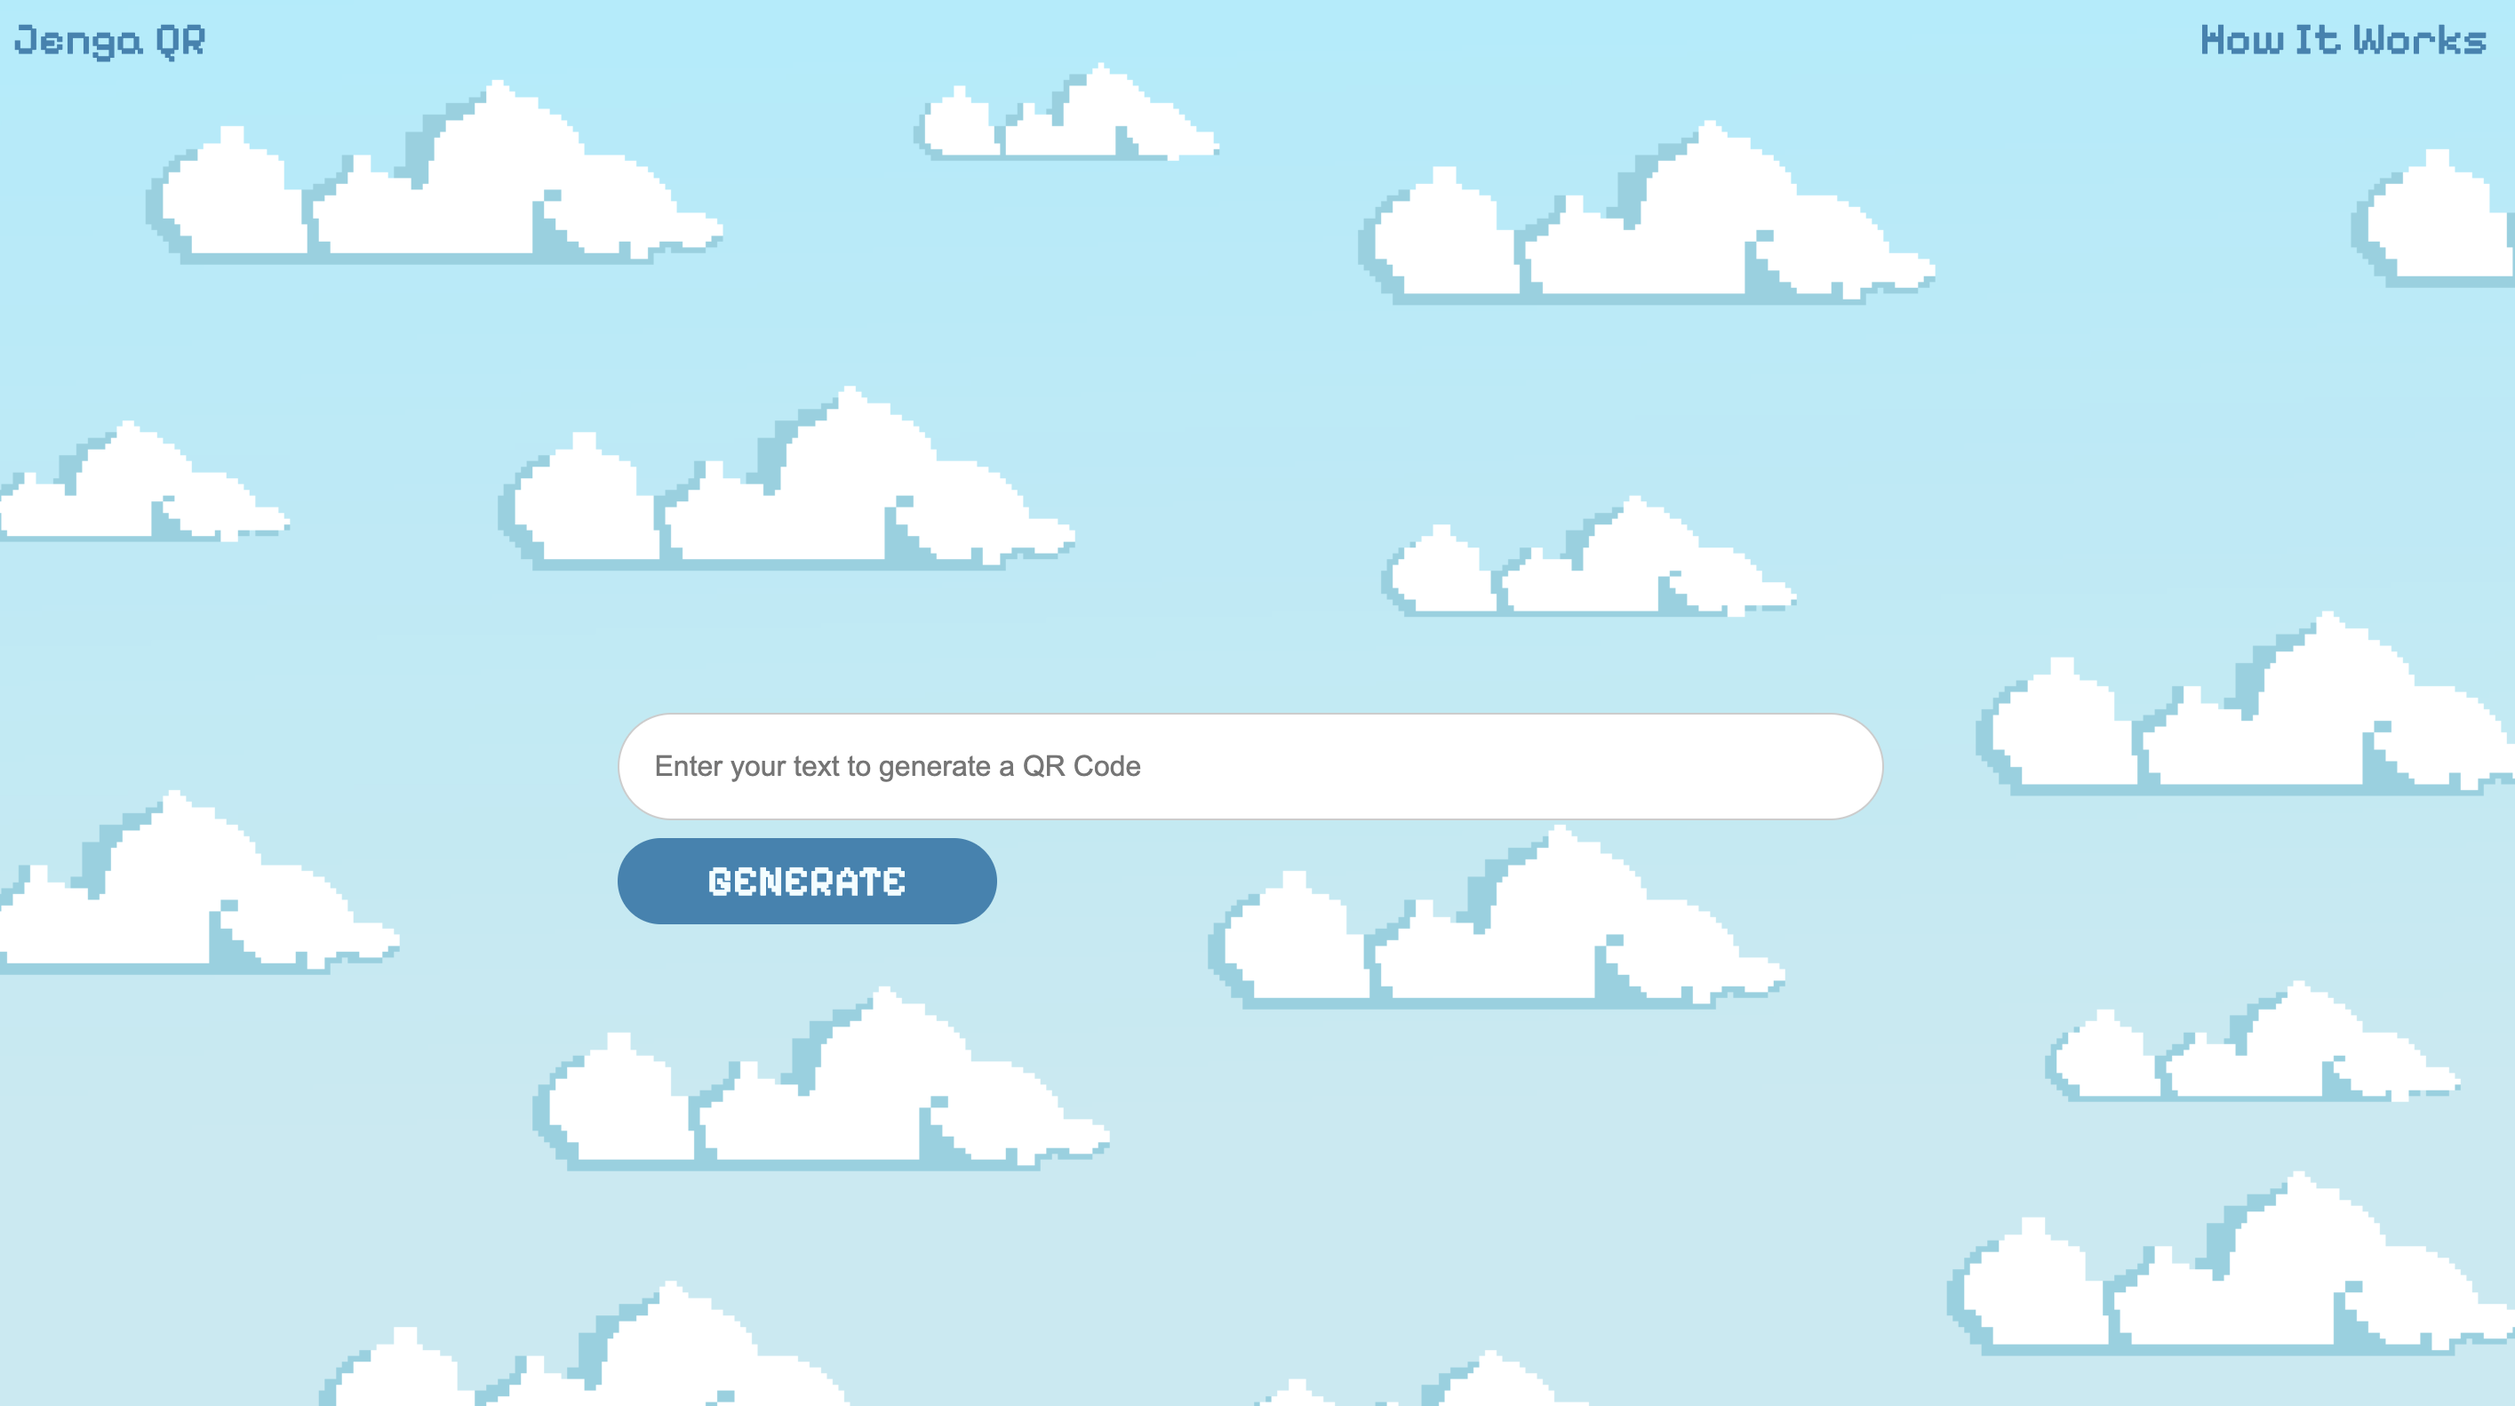
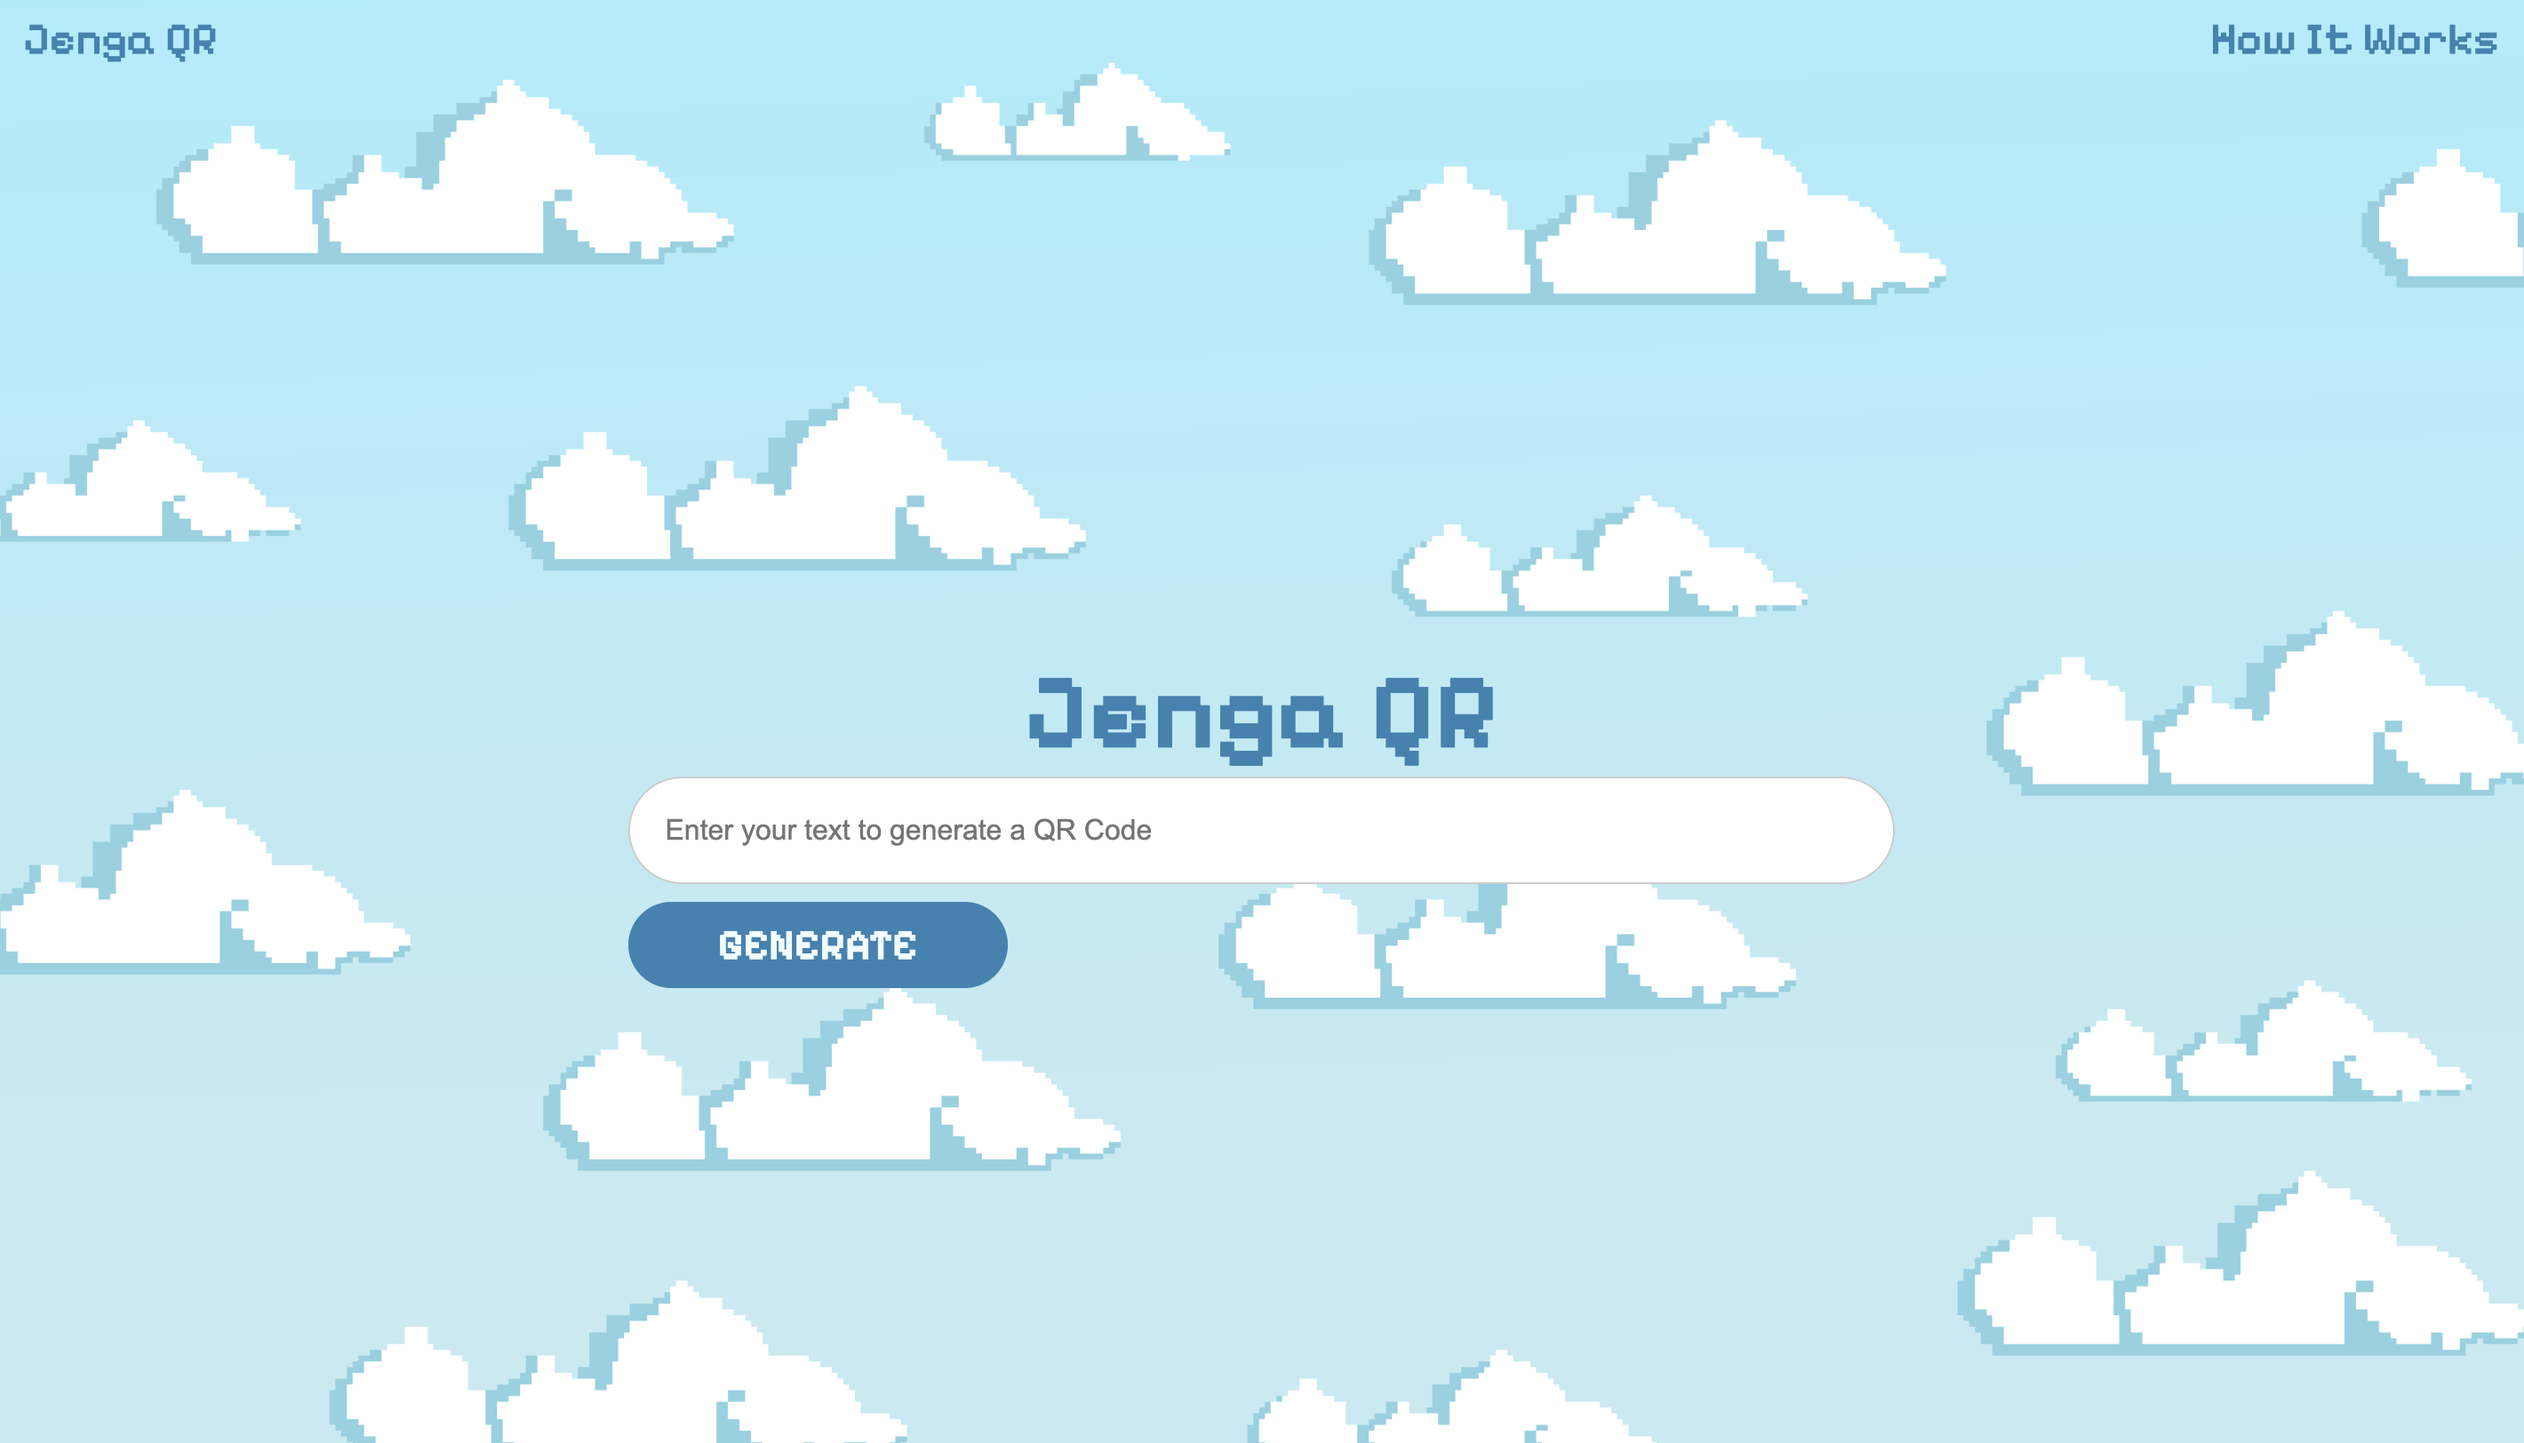
Feat: Introduce QRCode Model Form and functionality

diff --git a/jenga_qr/generator/static/generator/css/styles.css b/jenga_qr/generator/static/generator/css/styles.css
@@ -27,7 +27,6 @@ body {
   width: 100%;
   height: 100vh;
 }
-
 .hero-section {
   background-image: url("../images/website-hero.png");
   background-size: cover;
@@ -60,10 +59,19 @@ body {
 .form-group {
   width: 50%;
 }
+
+.form-group h1 {
+  font-family: "Pixelify Sans", sans-serif;
+  font-size: 60px;
+  color: rgb(45, 132, 178);
+  text-align: center;
+  margin: 0;
+}
 /* Input Styling */
-input[type="text"] {
+.text-class {
   width: 100%; /* Makes the input take up full width of its container */
   padding: 20px;
+  height: 40px;
   border: 1px solid #ccc;
   border-radius: 40px; /* Slightly rounded corners */
   box-sizing: border-box; /* Includes padding and border in the element's total width and height */
@@ -72,7 +80,11 @@ input[type="text"] {
   color: #555;
 }
 
-input[type="text"]:focus {
+.text-class::-webkit-scrollbar {
+  display: none;
+}
+
+.text-class:focus {
   border-color: #007bff; /* Changes border color on focus */
   outline: none; /* Removes the default outline */
   box-shadow: 0 0 5px rgba(0, 123, 255, 0.5); /* Adds a subtle shadow on focus */

diff --git a/jenga_qr/generator/templates/generator/generate.html b/jenga_qr/generator/templates/generator/generate.html
@@ -16,13 +16,9 @@
 
       <div class="hero-text-container">
         <div class="form-group">
-          <form action="">
-            <input
-              type="text"
-              id="username"
-              name="username"
-              placeholder="Enter your text to generate a QR Code"
-            />
+          <h1>Jenga QR</h1>
+          <form action="{% url 'generator:generate' %}" method="post">
+            {% csrf_token %} {{ form }}
             <input class="form-submit" type="submit" value="GENERATE" />
           </form>
         </div>

diff --git a/jenga_qr/config/settings.py b/jenga_qr/config/settings.py
@@ -9,6 +9,7 @@ https://docs.djangoproject.com/en/5.2/topics/settings/
 For the full list of settings and their values, see
 https://docs.djangoproject.com/en/5.2/ref/settings/
 """
+
 import os
 from pathlib import Path
 
@@ -20,7 +21,7 @@ BASE_DIR = Path(__file__).resolve().parent.parent
 # See https://docs.djangoproject.com/en/5.2/howto/deployment/checklist/
 
 # SECURITY WARNING: keep the secret key used in production secret!
-SECRET_KEY = 'django-insecure-_p))9^g483oe#^g3%!*$ln%&6i-51#0%klc8ii#y^=b71n7=5-'
+SECRET_KEY = "django-insecure-_p))9^g483oe#^g3%!*$ln%&6i-51#0%klc8ii#y^=b71n7=5-"
 
 # SECURITY WARNING: don't run with debug turned on in production!
 DEBUG = True
@@ -31,56 +32,56 @@ ALLOWED_HOSTS = []
 # Application definition
 
 INSTALLED_APPS = [
-    'django.contrib.admin',
-    'django.contrib.auth',
-    'django.contrib.contenttypes',
-    'django.contrib.sessions',
-    'django.contrib.messages',
-    'django.contrib.staticfiles',
-    'jenga_qr.generator',
+    "django.contrib.admin",
+    "django.contrib.auth",
+    "django.contrib.contenttypes",
+    "django.contrib.sessions",
+    "django.contrib.messages",
+    "django.contrib.staticfiles",
+    "jenga_qr.generator",
 ]
 
 MIDDLEWARE = [
-    'django.middleware.security.SecurityMiddleware',
-    'django.contrib.sessions.middleware.SessionMiddleware',
-    'django.middleware.common.CommonMiddleware',
-    'django.middleware.csrf.CsrfViewMiddleware',
-    'django.contrib.auth.middleware.AuthenticationMiddleware',
-    'django.contrib.messages.middleware.MessageMiddleware',
-    'django.middleware.clickjacking.XFrameOptionsMiddleware',
+    "django.middleware.security.SecurityMiddleware",
+    "django.contrib.sessions.middleware.SessionMiddleware",
+    "django.middleware.common.CommonMiddleware",
+    "django.middleware.csrf.CsrfViewMiddleware",
+    "django.contrib.auth.middleware.AuthenticationMiddleware",
+    "django.contrib.messages.middleware.MessageMiddleware",
+    "django.middleware.clickjacking.XFrameOptionsMiddleware",
 ]
 
-ROOT_URLCONF = 'jenga_qr.config.urls'
+ROOT_URLCONF = "jenga_qr.config.urls"
 
 TEMPLATES = [
     {
-        'BACKEND': 'django.template.backends.django.DjangoTemplates',
-        'DIRS': [],
-        'APP_DIRS': True,
-        'OPTIONS': {
-            'context_processors': [
-                'django.template.context_processors.request',
-                'django.contrib.auth.context_processors.auth',
-                'django.contrib.messages.context_processors.messages',
+        "BACKEND": "django.template.backends.django.DjangoTemplates",
+        "DIRS": [],
+        "APP_DIRS": True,
+        "OPTIONS": {
+            "context_processors": [
+                "django.template.context_processors.request",
+                "django.contrib.auth.context_processors.auth",
+                "django.contrib.messages.context_processors.messages",
             ],
         },
     },
 ]
 
-WSGI_APPLICATION = 'jenga_qr.config.wsgi.application'
+WSGI_APPLICATION = "jenga_qr.config.wsgi.application"
 
 
 # Database
 # https://docs.djangoproject.com/en/5.2/ref/settings/#databases
 
 DATABASES = {
-    'default': {
-        'ENGINE': 'django.db.backends.postgresql',
-        'NAME': os.getenv("DB_NAME", "jenga_qr_db"),
-        'USER': os.getenv("DB_USER", ""),
-        'PASSWORD': os.getenv("DB_PASS", ""),
-        'HOST': os.getenv("DB_HOST", "localhost"),
-        'PORT': os.getenv("DB_PORT", "5432"),
+    "default": {
+        "ENGINE": "django.db.backends.postgresql",
+        "NAME": os.getenv("DB_NAME", "jenga_qr_db"),
+        "USER": os.getenv("DB_USER", ""),
+        "PASSWORD": os.getenv("DB_PASS", ""),
+        "HOST": os.getenv("DB_HOST", "localhost"),
+        "PORT": os.getenv("DB_PORT", "5432"),
     }
 }
 
@@ -90,16 +91,16 @@ DATABASES = {
 
 AUTH_PASSWORD_VALIDATORS = [
     {
-        'NAME': 'django.contrib.auth.password_validation.UserAttributeSimilarityValidator',
+        "NAME": "django.contrib.auth.password_validation.UserAttributeSimilarityValidator",
     },
     {
-        'NAME': 'django.contrib.auth.password_validation.MinimumLengthValidator',
+        "NAME": "django.contrib.auth.password_validation.MinimumLengthValidator",
     },
     {
-        'NAME': 'django.contrib.auth.password_validation.CommonPasswordValidator',
+        "NAME": "django.contrib.auth.password_validation.CommonPasswordValidator",
     },
     {
-        'NAME': 'django.contrib.auth.password_validation.NumericPasswordValidator',
+        "NAME": "django.contrib.auth.password_validation.NumericPasswordValidator",
     },
 ]
 
@@ -107,9 +108,9 @@ AUTH_PASSWORD_VALIDATORS = [
 # Internationalization
 # https://docs.djangoproject.com/en/5.2/topics/i18n/
 
-LANGUAGE_CODE = 'en-us'
+LANGUAGE_CODE = "en-us"
 
-TIME_ZONE = 'UTC'
+TIME_ZONE = "UTC"
 
 USE_I18N = True
 
@@ -119,12 +120,12 @@ USE_TZ = True
 # Static files (CSS, JavaScript, Images)
 # https://docs.djangoproject.com/en/5.2/howto/static-files/
 
-STATIC_URL = 'static/'
+STATIC_URL = "static/"
 
 # Default primary key field type
 # https://docs.djangoproject.com/en/5.2/ref/settings/#default-auto-field
 
-DEFAULT_AUTO_FIELD = 'django.db.models.BigAutoField'
+DEFAULT_AUTO_FIELD = "django.db.models.BigAutoField"
 
-MEDIA_ROOT = BASE_DIR / 'media'
-MEDIA_URL = '/media/'
+MEDIA_ROOT = BASE_DIR / "media"
+MEDIA_URL = "/media/"

diff --git a/jenga_qr/generator/views.py b/jenga_qr/generator/views.py
@@ -1,10 +1,27 @@
+from django.http import HttpResponseRedirect
 from django.shortcuts import render
+
+from jenga_qr.generator.forms import QRForm
 
 
 def index(request):
     context = {}
-    return render(request, 'generator/index.html', context)
+    return render(request, "generator/index.html", context)
+
 
 def generate(request):
     context = {}
-    return render(request, 'generator/generate.html', context)
+    # if this is a POST request we need to process the form data
+    if request.method == "POST":
+        # create a form instance and populate it with data from the request:
+        form = QRForm(request.POST)
+        # check whether it's valid:
+        if form.is_valid():
+            form.save()
+            return HttpResponseRedirect("")
+
+    # if a GET (or any other method) we'll create a blank form
+    else:
+        form = QRForm()
+
+    return render(request, "generator/generate.html", {"form": form})

diff --git a/jenga_qr/generator/models.py b/jenga_qr/generator/models.py
@@ -14,7 +14,7 @@ class QRCode(models.Model):
         unique=True, default=uuid.uuid4, editable=False, primary_key=True
     )
     data = models.TextField(max_length=250)
-    qr_code = models.ImageField(upload_to='qr_codes/' ,null=True, blank=True)
+    qr_code = models.ImageField(upload_to="qr_codes/", null=True, blank=True)
 
     def generate_qr_code(self):
         """Generate a QR Code."""
@@ -29,8 +29,7 @@ class QRCode(models.Model):
         file_name = f"qr_{self.guid}.png"
         self.qr_code.save(file_name, ContentFile(buffer.read()), save=False)
         buffer.close()
-        
-    
+
     def save(self, *args: Any, **kwargs: Any) -> None:
         """Validate fields before saving."""
         if self._state.adding:

diff --git a/jenga_qr/generator/forms.py b/jenga_qr/generator/forms.py
@@ -1,0 +1,20 @@
+from django import forms
+from .models import QRCode
+
+
+class QRForm(forms.ModelForm):
+    class Meta:
+        model = QRCode
+        fields = ['data'] 
+    # forms.Form):
+    # data = forms.CharField(
+    #     max_length=250,
+    #     widget=forms.TextInput(
+    #         attrs={"placeholder": "Please provide the text to generate into a qrcode"}
+    #     ),
+    # )
+
+    def __init__(self, *args, **kwargs):
+        super().__init__(*args, **kwargs)
+        self.fields["data"].label = ""
+        self.fields["data"].widget.attrs.update({'class': 'text-class'})

diff --git a/jenga_qr/config/urls.py b/jenga_qr/config/urls.py
@@ -14,10 +14,14 @@ Including another URLconf
     1. Import the include() function: from django.urls import include, path
     2. Add a URL to urlpatterns:  path('blog/', include('blog.urls'))
 """
+
 from django.contrib import admin
 from django.urls import include, path
 
 urlpatterns = [
-    path('admin/', admin.site.urls),
-    path('generator/', include(("jenga_qr.generator.urls", "generator"), namespace="generator")),
+    path("admin/", admin.site.urls),
+    path(
+        "generator/",
+        include(("jenga_qr.generator.urls", "generator"), namespace="generator"),
+    ),
 ]

diff --git a/manage.py b/manage.py
@@ -6,7 +6,7 @@ import sys
 
 def main():
     """Run administrative tasks."""
-    os.environ.setdefault('DJANGO_SETTINGS_MODULE', 'jenga_qr.config.settings')
+    os.environ.setdefault("DJANGO_SETTINGS_MODULE", "jenga_qr.config.settings")
     try:
         from django.core.management import execute_from_command_line
     except ImportError as exc:
@@ -18,5 +18,5 @@ def main():
     execute_from_command_line(sys.argv)
 
 
-if __name__ == '__main__':
+if __name__ == "__main__":
     main()

diff --git a/jenga_qr/generator/urls.py b/jenga_qr/generator/urls.py
@@ -3,6 +3,6 @@ from django.urls import path
 from . import views
 
 urlpatterns = [
-    path('generate/', views.generate, name='generate'),
-    path('', views.index, name='index'),
+    path("generate/", views.generate, name="generate"),
+    path("", views.index, name="index"),
 ]

diff --git a/jenga_qr/config/asgi.py b/jenga_qr/config/asgi.py
@@ -11,6 +11,6 @@ import os
 
 from django.core.asgi import get_asgi_application
 
-os.environ.setdefault('DJANGO_SETTINGS_MODULE', 'jenga_qr.config.settings')
+os.environ.setdefault("DJANGO_SETTINGS_MODULE", "jenga_qr.config.settings")
 
 application = get_asgi_application()

diff --git a/jenga_qr/generator/apps.py b/jenga_qr/generator/apps.py
@@ -2,5 +2,5 @@ from django.apps import AppConfig
 
 
 class GeneratorConfig(AppConfig):
-    default_auto_field = 'django.db.models.BigAutoField'
-    name = 'jenga_qr.generator'
+    default_auto_field = "django.db.models.BigAutoField"
+    name = "jenga_qr.generator"

diff --git a/jenga_qr/config/wsgi.py b/jenga_qr/config/wsgi.py
@@ -11,6 +11,6 @@ import os
 
 from django.core.wsgi import get_wsgi_application
 
-os.environ.setdefault('DJANGO_SETTINGS_MODULE', 'config.settings')
+os.environ.setdefault("DJANGO_SETTINGS_MODULE", "config.settings")
 
 application = get_wsgi_application()
